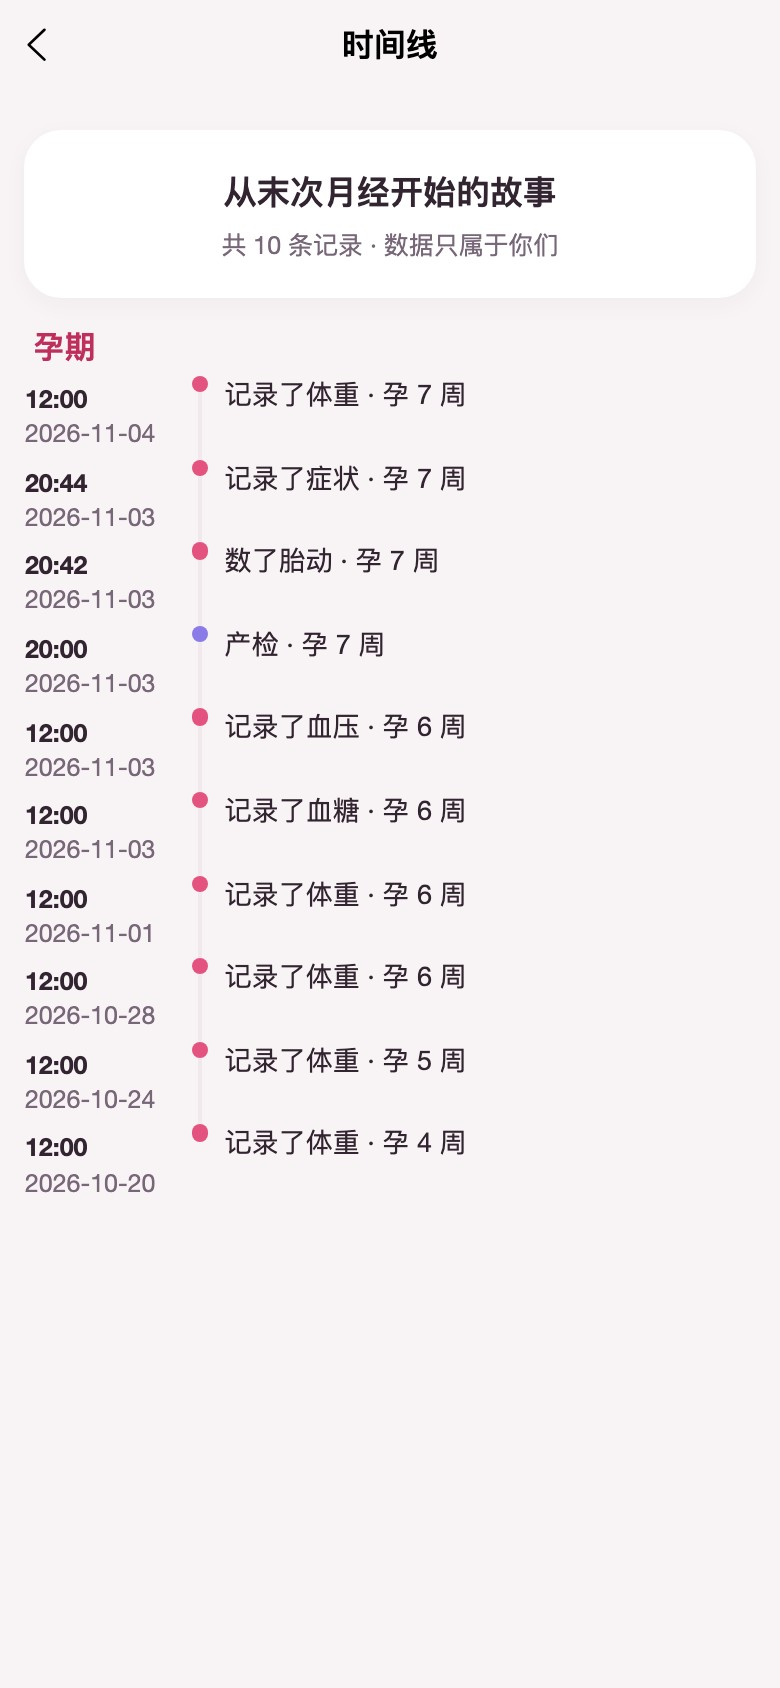
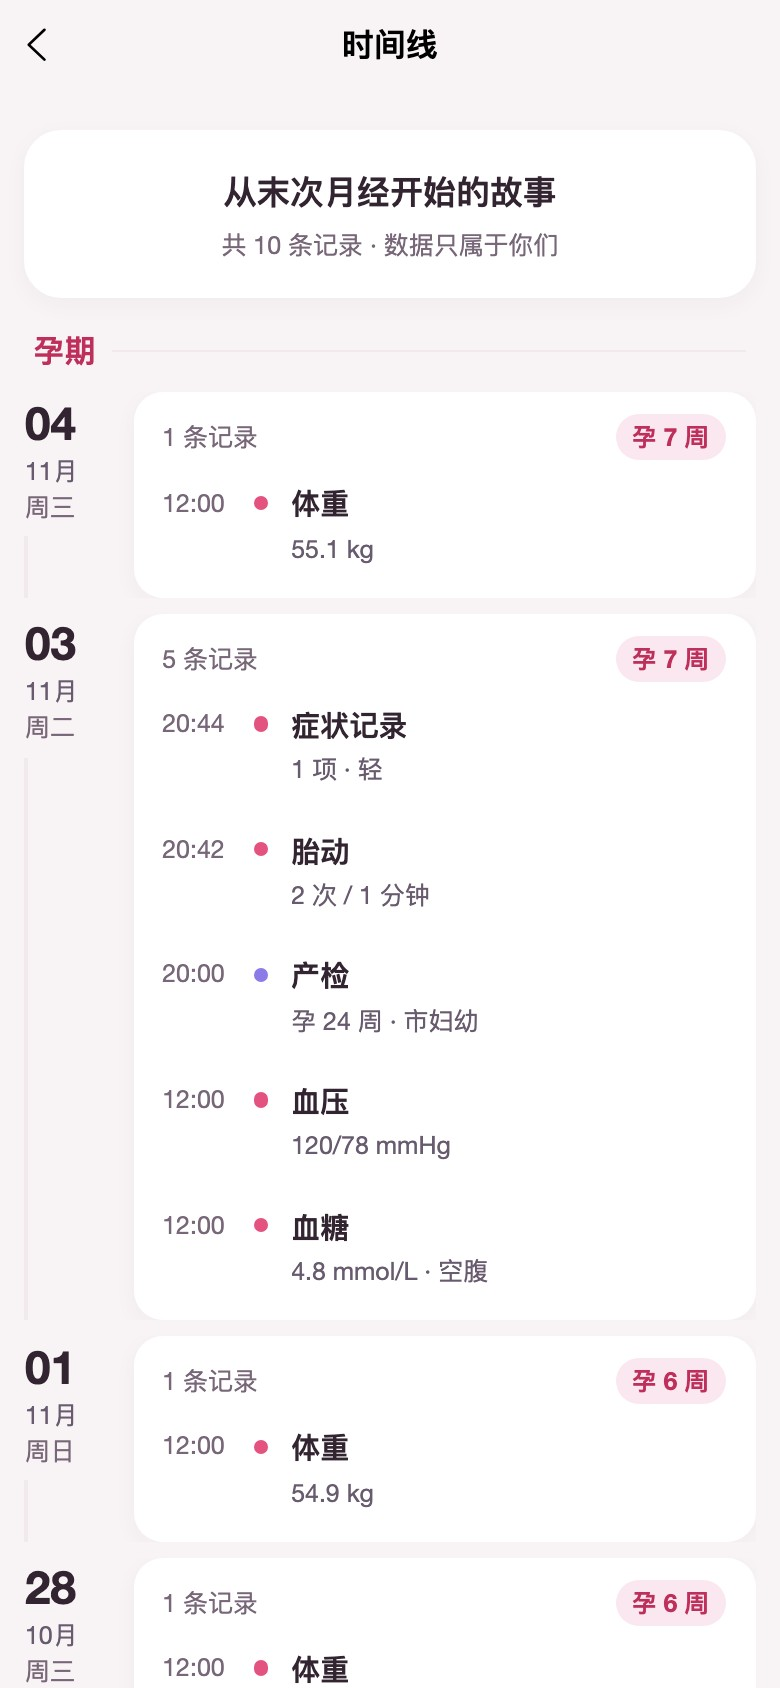
feat(ui): 重排时间线与指标曲线页面
- 时间线按天分组：左侧大号日号 + 当天事件卡，日期不再重复折行
- 事件补充具体数值（体重/血压/血糖/胎动/饮水/产检等）
- 指标页改为总览（最新值/较上次/平均）+ 加高柱状趋势 + 全部记录
- 更新 README 对应截图与测试

diff --git a/test/unit/release.test.js b/test/unit/release.test.js
@@ -133,9 +133,10 @@ test('隐私同意只在注册时进行一次，引导页不再二次确认', ()
 
 test('时间线按旅程阶段分章，指标显示中文', () => {
   const tl = read('pages/data/timeline.uvue')
-  assert.ok(tl.includes("'water', '记录了饮水'"), '饮水记录应显示中文，不能露出 water 原始码')
+  assert.ok(tl.includes("'water', '饮水'"), '饮水记录应显示中文，不能露出 water 原始码')
   assert.ok(tl.includes("journeyState.stage == 'T1'"), '孕期章节需判断阶段，不能只因存在末次月经就判定为孕期')
   assert.ok(!/const lmp = journeyState\.lmpDate[\s\S]{0,200}return \{ title: '孕期'/.test(tl), '备孕旅程不能误标孕期')
+  assert.ok(tl.includes('DayGroup') && tl.includes('showChapter'), '时间线需按天分组，日期只出现一次')
 })
 
 test('分娩登记性别选择可点击且映射完整', () => {

diff --git a/docs/12-上线前定版与发布清单.md b/docs/12-上线前定版与发布清单.md
@@ -59,7 +59,7 @@
 
 ## 4. 发布前检查清单
 
-- [ ] `npm test` 全绿（当前 144/144）
+- [ ] `npm test` 全绿（当前 153/153）
 - [ ] `HBuilderX` 云打包编译通过（54 页）
 - [ ] 真机回归：注册/短信登录（配置后）/游客引导→建档→首条记录→提醒→时间线→报告→退出→复登
 - [ ] 隐私链路：注册页单独同意并落库、引导页不二次确认、首页补同意门兜底、导出、注销、撤回
